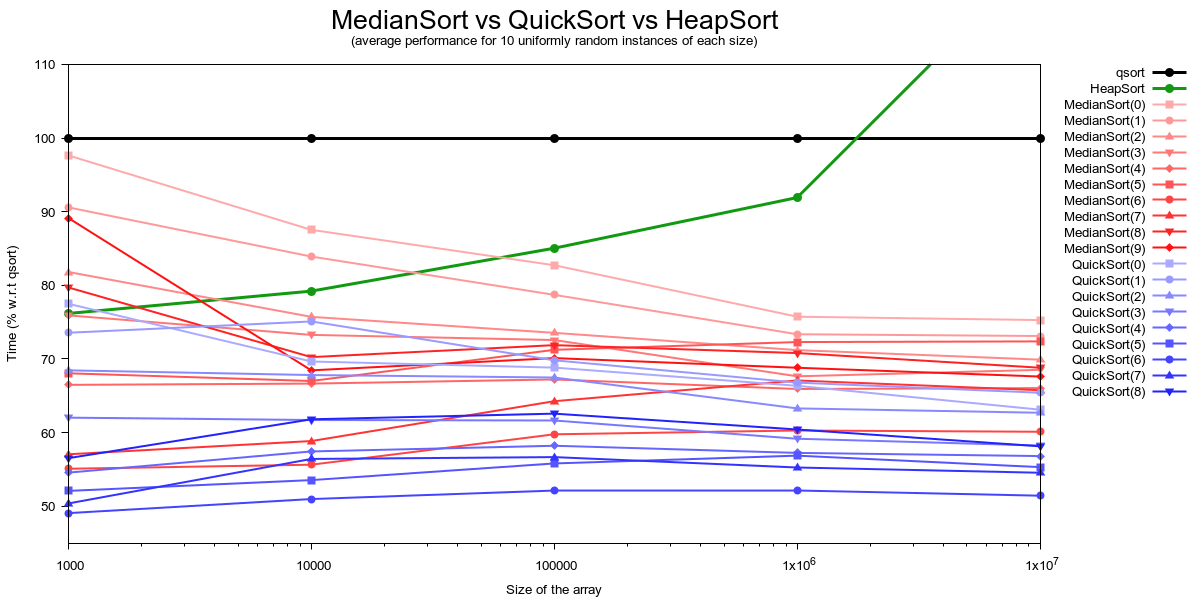
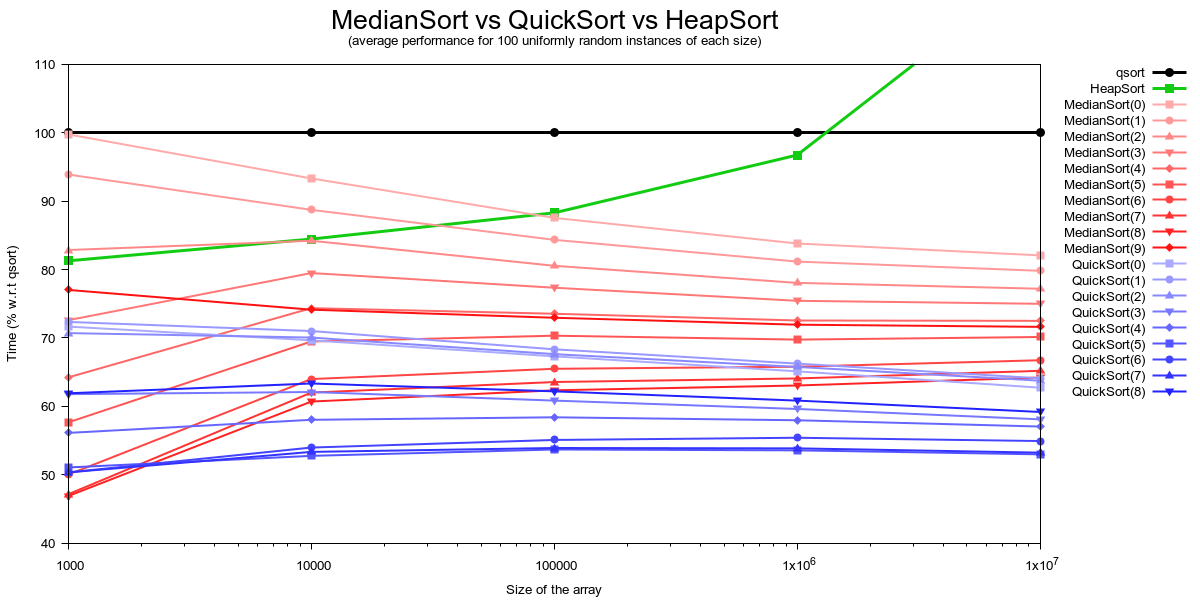
Add files via upload

diff --git a/MedianSort.c b/MedianSort.c
@@ -58,24 +58,20 @@
     static void quick_select##suffix(type_t *A, const size_t length,            \
                                      const size_t rank) {                       \
                                                                                 \
-        size_t l, low  = 0;                                                     \
-        size_t h, high = length-1;                                              \
-        type_t temp, pivot;                                                     \
+        size_t l, left  = 0;                                                    \
+        size_t r, right = length-1;                                             \
+        type_t t, pivot;                                                        \
                                                                                 \
-        while (low < high) {                                                    \
+        while (left < right) {                                                  \
             pivot = A[rank];                                                    \
-            l     = low;                                                        \
-            h     = high;                                                       \
+            l     = left;                                                       \
+            r     = right;                                                      \
             do {while (less_than(A[l], pivot)) { ++l; }                         \
-                while (less_than(pivot, A[h])) { --h; }                         \
-                if (l <= h) {                                                   \
-                    temp = A[l]; A[l] = A[h]; A[h] = temp;                      \
-                    ++l;                                                        \
-                    --h;                                                        \
-                }                                                               \
-            } while (l <= h);                                                   \
-            if (h < rank) { low  = l; }                                         \
-            if (rank < l) { high = h; }                                         \
+                while (less_than(pivot, A[r])) { --r; }                         \
+                if (l <= r) { t=A[l]; A[l]=A[r]; A[r]=t; ++l; --r; }            \
+            } while (l <= r);                                                   \
+            if (r < rank) { left  = l; }                                        \
+            if (rank < l) { right = r; }                                        \
         }                                                                       \
     }                                                                           \
                                                                                 \
@@ -108,7 +104,7 @@
         }                                                                       \
     }                                                                           \
                                                                                 \
-                                                                                
+                                                                                                                                                               
 #define IMPORT_QUICK_SORT(type_t, less_than, power, suffix)                     \
                                                                                 \
     static void quick_sort##suffix(type_t *A, const size_t length) {            \
@@ -122,8 +118,8 @@
             const type_t pivot = A[length/2];                                   \
                                                                                 \
             for (l = 0, r = length-1; ; ++l, --r) {                             \
-                while (A[l] < pivot) { ++l; }                                   \
-                while (A[r] > pivot) { --r; }                                   \
+                while (less_than(A[l], pivot)) { ++l; }                         \
+                while (less_than(pivot, A[r])) { --r; }                         \
                 if (l >= r) { break; }                                          \
                 t = A[l]; A[l] = A[r]; A[r] = t;                                \
             }                                                                   \
@@ -136,7 +132,7 @@
         else {                                                                  \
             for (r = 1; r < length; ++r) {                                      \
                 t = A[r];                                                       \
-                for (l=r; l>0 && less_than(t, A[l-1]); --l) { A[l] = A[l-1]; }  \
+                for (l=r; l && less_than(t, A[l-1]); --l) { A[l] = A[l-1]; }    \
                 A[l] = t;                                                       \
             }                                                                   \
         }                                                                       \
@@ -150,37 +146,31 @@
         size_t i, j, k;                                                         \
         type_t temp;                                                            \
                                                                                 \
-        /* Max-Heapify the array A[0..length-1] in O(length) */                 \
-        for (i = (length>>1); i > 0; i--) {                                     \
-            j    = i-1;                                                         \
+        for (i = (length>>1); i--> 0; ) {                                       \
+            j    = i;                                                           \
             temp = A[j];                                                        \
-            for (;;) {                                                          \
-                k = (j<<1) + 1;                                                 \
-                if (k+1 >  length) { break; }                                   \
-                if (k+2 <= length && less_than(A[k], A[k+1])) { k++; }          \
-                if (less_than(A[k], temp)) { break; }                           \
-                else { A[j] = A[k]; j = k; }                                    \
+            for (k = (j<<1)+1; k < length; k = (j<<1)+1) {                      \
+                if (k+1 < length && less_than(A[k], A[k+1])) { ++k; }           \
+                if (less_than(temp, A[k])) { A[j] = A[k]; j = k; }              \
+                else                       { break;              }              \
             }                                                                   \
             A[j] = temp;                                                        \
         }                                                                       \
                                                                                 \
-        /* Selection Sort phase in O(length * log(length)) */                   \
-        for (i = length-1; i > 0; i--) {                                        \
+        for (i = length; i--> 1; ) {                                            \
             temp = A[i];                                                        \
             A[i] = A[0];                                                        \
             j    = 0;                                                           \
-            for (;;) {                                                          \
-                k = (j<<1) + 1;                                                 \
-                if (k+1 >  i) { break; }                                        \
-                if (k+2 <= i && less_than(A[k], A[k+1])) { k++; }               \
-                if (less_than(A[k], temp)) { break; }                           \
-                else { A[j] = A[k]; j = k; }                                    \
+            for (k = (j<<1)+1; k < i; k = (j<<1)+1) {                           \
+                if (k+1 < i && less_than(A[k], A[k+1])) { ++k; }                \
+                if (less_than(temp, A[k])) { A[j] = A[k]; j = k; }              \
+                else                       { break;              }              \
             }                                                                   \
             A[j] = temp;                                                        \
         }                                                                       \
     }                                                                           \
                                                                                 \
-
+    
 /** AUXILIARY FUNCTIONS *************************************************** **/
 
 int comp_int(const void *i, const void *j) {
@@ -191,14 +181,14 @@ int comp_int(const void *i, const void *j) {
 
 int rand_int(const int n) {
 
-        /* Preconditions */
-        assert(n > 0);
-        assert(RAND_MAX >= n);
+    /* Preconditions */
+    assert(n > 0);
+    assert(RAND_MAX >= n);
 
-        /* Monte-Carlo uniformly random generator */
-        int r, range = RAND_MAX - (RAND_MAX % n);
-        do { r = rand(); } while (r >= range);
-        return r % n;
+    /* Monte-Carlo uniformly random generator */
+    int r, range = RAND_MAX - (RAND_MAX % n);
+    do { r = rand(); } while (r >= range);
+    return r % n;
 }
 
 IMPORT_MEDIAN_SORT(int, LESS_THAN, 0, _0)
@@ -232,7 +222,7 @@ int main (void) {
     clock_t crono;
     size_t i, j, step, size;
 
-    const size_t repeat = 10;
+    const size_t repeat = 100;
     const size_t steps  = 5;
 
     double T[22][steps];
@@ -429,8 +419,7 @@ int main (void) {
     for (i = 0; i < 10; i++) { printf(" QuickSort(%zu)", i);  }
     for (step = 0; step < steps; step++) {
         printf("\n%zu %.2f %.2f", S[step], 100.0, 100.0 * T[21][step] / T[20][step]);
-        for (i =  0; i < 10; i++) { printf(" %.2f", 100.0 * T[i][step] / T[20][step]); }
-        for (i = 10; i < 20; i++) { printf(" %.2f", 100.0 * T[i][step] / T[20][step]); }
+        for (i =  0; i < 20; i++) { printf(" %.2f", 100.0 * T[i][step] / T[20][step]); }
     }
     
     free(buffer);

diff --git a/README.md b/README.md
@@ -214,3 +214,4 @@ unjustified oblivion.
 
 This PUBLIC DOMAIN prototype aims to correct that situation. Use this code as
 you see fit.
+
